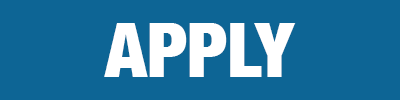
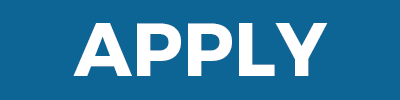
New fonts for buttons
new fonts that fit in better

Changed region(s): [[0.18, 0.21, 0.84, 0.78]]

diff --git a/a100/index.html b/a100/index.html
@@ -948,7 +948,7 @@
 			<div class="row">
 	
 				<div class="col-xs-12 centered">
-					<a href="http://www.formstack.com/forms/?1431268-XiMahhyQLI" target="_blank"><img src="assets/img/buttonApply.png"></a>
+					<a href="http://www.formstack.com/forms/?1431268-XiMahhyQLI" target="_blank"><img src="assets/img/buttons/mentor-button.png"></a>
 				</div>
 	
 			</div>
@@ -972,7 +972,7 @@
 			<div class="row">
 			
 				<div class="col-xs-12 centered">
-					<a href="http://www.formstack.com/forms/?1431268-XiMahhyQLI" target="_blank"><img src="assets/img/buttonApply.png" width="200" height="auto"></a>
+					<a href="http://www.formstack.com/forms/?1431268-XiMahhyQLI" target="_blank"><img src="assets/img/buttons/mentor-button.png" width="200" height="auto"></a>
 				</div>
 			
 			</div>
